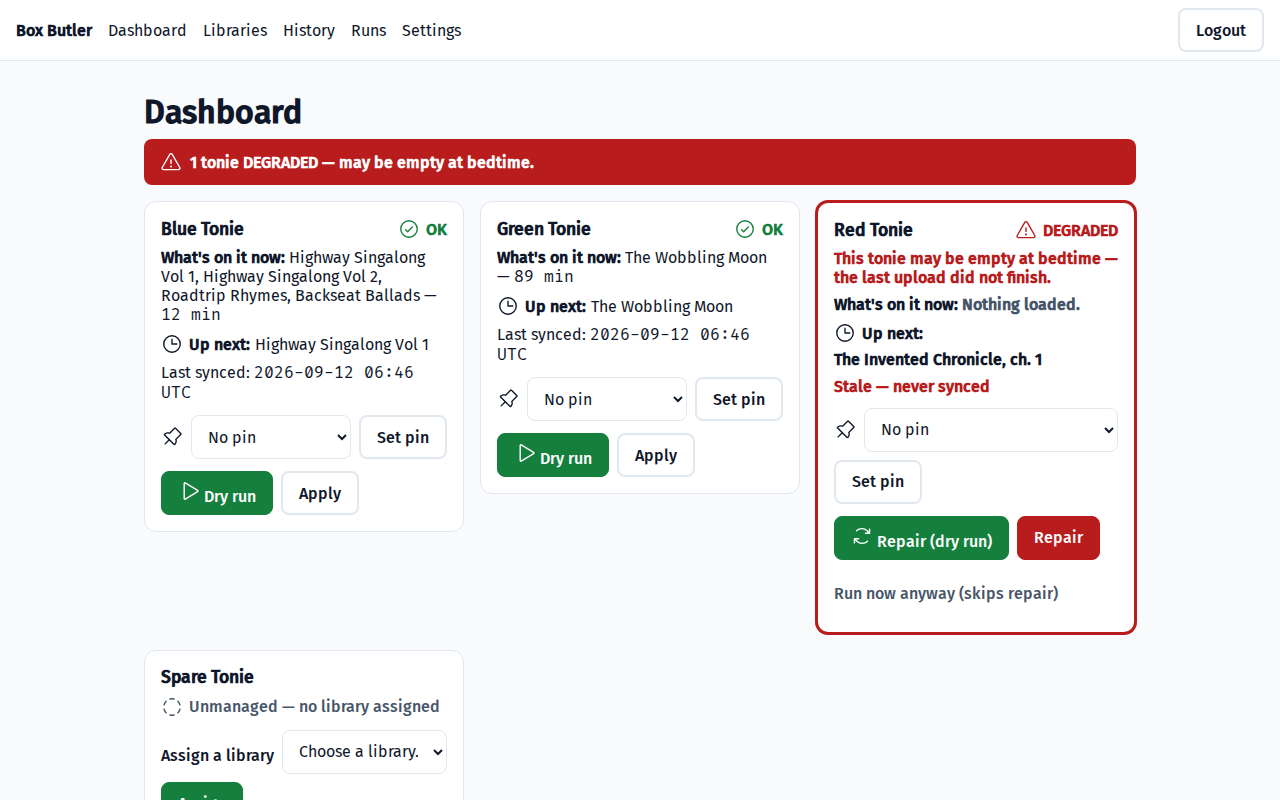
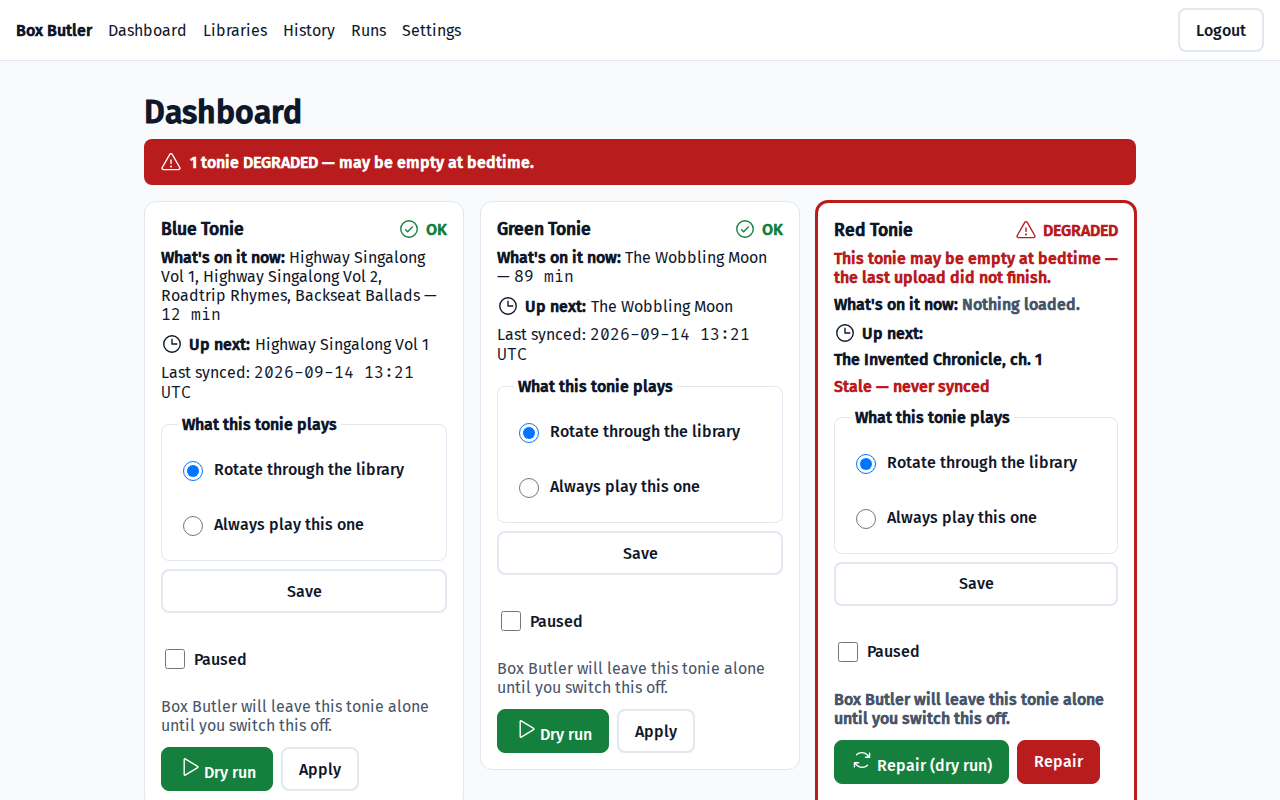
docs: describe the tool as a Creative-Tonie manager, not a rotator
The README led with "keeps Creative-Tonies loaded with fresh audio on a
schedule" - rotation first. That undersold it and read as if rotation were
mandatory, when rotation is one of four behaviours and a fixed library that
never changes is an equally normal setup.

It now leads with managing what is on your tonies: build libraries from your
own audio, then choose per tonie what goes on and whether it changes. A table
covers the four behaviours; the worked examples live in docs/GUIDE.md so the
GitHub landing page stays short.

Screenshots regenerated against the reworded play-mode control - the previous
set showed the old "Rotating" checkbox that could contradict a pin.

diff --git a/docs/GUIDE.md b/docs/GUIDE.md
@@ -1,0 +1,94 @@
+# Worked examples
+
+Four setups that cover most of what people actually want from a Creative-Tonie. Each starts from a
+library and ends with a tonie doing one specific thing.
+
+The pattern is always the same: **build a library → assign it to a tonie → choose what that tonie
+plays**. Nothing touches a tonie until you run, and a dry run shows you the plan first.
+
+---
+
+## 1. A fresh story each night
+
+The common case: a shelf of bedtime stories, one a night, in order, without anyone opening the app.
+
+1. **Libraries → New library**, call it `Bedtime`, mode `single`.
+2. Add the audio. For files you already own, put them in a folder under your `/media` mount — each
+   immediate subfolder becomes a library automatically. Otherwise paste a podcast feed or a playlist
+   URL, or upload files directly.
+3. **Dashboard → the tonie's card → Assign a library →** `Bedtime`.
+4. Leave *What this tonie plays* on **Rotate through the library**.
+5. **Dry run** to see what it would load, then **Apply** — or turn on the schedule and let 15:00 do it.
+
+Each run puts the next story on and advances. Long stories are trimmed to fit (see *Long stories*
+below).
+
+## 2. A fixed set that never changes
+
+A car playlist, a favourite album, a set of songs the kids know. Put it on once and leave it.
+
+1. Create the library and add the tracks in the order you want them — **Move up / Move down** on each
+   row, or drag the handle.
+2. Set the library's mode to **`album`**.
+3. Assign it and **Apply** once.
+
+The whole library goes on as chapters and stays there. Nothing rotates. To change what's on the
+tonie, change the library and run again.
+
+## 3. An audiobook across nights
+
+A single long book, continuing where it left off, over as many nights as it takes.
+
+1. Create a library with the book's parts in order, mode **`serial`**.
+2. Assign it and let it run.
+
+Each run fills the tonie up to the duration cap and then advances **past everything it loaded**, so
+the next run continues from where the last one stopped rather than repeating it.
+
+## 4. One story, on repeat
+
+A favourite that shouldn't change, on a tonie that otherwise would rotate.
+
+1. On the tonie's card, choose **Always play this one**.
+2. Pick the item from the list that appears.
+
+<img width="420" alt="The play-mode control with Always play this one selected, revealing the item picker" src="screenshots/choose-always-play.png">
+
+3. **Save**, then **Apply** (or wait for the schedule).
+
+The card then says exactly what it will do, and keeps doing it until you change it back:
+
+<img width="420" alt="A card reading Always playing, with the chosen story named" src="screenshots/always-playing.png">
+
+**To change it later**, pick a different item and save. **To resume rotating**, choose *Rotate
+through the library* — it carries on from where it was frozen.
+
+Libraries larger than 50 items show a search box instead of a dropdown, so a feed with hundreds of
+episodes stays usable.
+
+---
+
+## Long stories are trimmed
+
+A Creative-Tonie holds a fixed amount of audio (the cloud's limit is 5400 seconds; the default cap is
+5395). Anything longer is trimmed to the **first** 89 minutes for the tonie.
+
+**Your files are never modified** — the trim happens on a copy in the cache, and folder libraries are
+mounted read-only. But a two-and-a-half hour story becomes its first 89 minutes on the tonie, and the
+ending is not on there. Library rows show the duration and say when an item will be trimmed, so you
+can see it before you run.
+
+For sleep stories this is usually the intent. For anything with a plot, split it into parts and use
+`serial`.
+
+## Pausing a tonie
+
+**Paused** is a separate switch from what a tonie plays. It means *leave this tonie alone entirely* —
+no rotation, no repair, nothing — until you switch it off. Use it when a tonie is away, lost, or
+you've loaded something by hand that you don't want replaced.
+
+## Two tonies, two behaviours
+
+Every tonie is independent: its own library, its own behaviour, its own position in the rotation. One
+can rotate a bedtime library nightly while another holds a single story for a month. Changing one
+never affects the other.

diff --git a/README.md b/README.md
@@ -1,10 +1,11 @@
 # Box Butler
 
-**Keeps Toniebox Creative-Tonies loaded with fresh audio on a schedule, so nobody has to do it by
-hand in the app at bedtime.**
+**Manage what's on your Toniebox Creative-Tonies.**
 
-Point it at a library — a YouTube playlist, a podcast feed, a folder of your own files — assign it to
-a tonie, and it rotates something new in each night. Self-hosted, one container.
+Build libraries from your own audio — a folder of files, a podcast feed, a YouTube playlist, an
+upload — then choose, per tonie, what goes on it and whether it changes: a fresh story each night, a
+fixed set that stays put, an audiobook across nights, or one story on repeat. Self-hosted, one
+container, no app fiddling at bedtime.
 
 > [!IMPORTANT]
 > Unofficial tool, **not associated with Boxine GmbH** ("tonies", "Toniebox" and "Creative-Tonie"
@@ -28,12 +29,24 @@ first.
 
 <img width="520" alt="History: what each tonie held, and what replaced it when" src="docs/screenshots/history-light.png">
 
+## What a tonie can do
+
+Each tonie gets a library and one behaviour. That choice is the whole product:
+
+| Behaviour | What goes on the tonie | Changes by itself? |
+|---|---|---|
+| `single` | One item, trimmed to fit | Yes — a new one each run |
+| `album` | The whole library, as chapters | No |
+| `serial` | Fills to the cap, continues where it left off next time | Yes — works through it |
+| *Always play this one* | Exactly the item you choose | No — until you change it |
+
+**[Worked examples → docs/GUIDE.md](docs/GUIDE.md)** — a story a night, a fixed album for the car, an
+audiobook over two weeks, and one favourite that never changes.
+
 ## Features
 
 - **Six ways in** — YouTube video or playlist, podcast RSS, upload, a watched folder, direct URL.
-- **Three modes** — `single` (one story, trimmed to fit), `album` (static), `serial` (advances through
-  a long audiobook across nights).
-- **Pin** an item; **shuffle or ordered**; **duplicate avoidance** across tonies with a repeat cooldown.
+- **Shuffle or ordered**, **duplicate avoidance** across tonies, and a repeat cooldown.
 - **Prefetch**, so a broken extractor doesn't cost you the night it breaks.
 - **Web UI, CLI and Prometheus metrics** — dry-run is the default everywhere; writing needs `--apply`.
 
